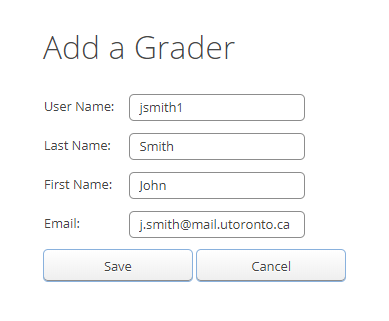
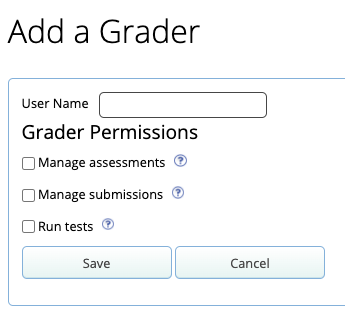
change admin to instructor

diff --git a/Instructor-Guide--Users.md b/Instructor-Guide--Users.md
@@ -7,9 +7,7 @@
      - [Other Actions](#other-actions)
  - [Grader Accounts](#grader-accounts)
  - [Sections](#sections)
- - [Admin Accounts](#admin-accounts)
-
-> :warning: **Warning**: Do not change the username of any users after they have been created. This will prevent that user from logging in unless their log in credentials change as well. If you need to change the username of a user, make sure you let your sysadmin know so that they can make the appropriate changes.
+ - [instructor Accounts](#instructor-accounts)
 
 ## Student Accounts
 
@@ -25,17 +23,16 @@ This will bring up the "Add a Student" page:
 ![Add a student page](images/users-add-student-form.png)
 
 The page contains the following fields to be filled out:
- **- User Name:** The student's username (used to log in).
- **- Last Name:** The student's last name.
- **- First Name:** The student's first name.
- **- Email:** The student's email address.
- **- ID number:** The student's student number (optional).
- **- Grace Credits:** The number of grace credits you'd like the student to have (if you'd like them to have none or are not using grace credits enter 0).
- **- Section:** The section the student is in (you may also create a new section from here) (optional).
+
+ - **User Name:** The student's username (used to log in).
+ - **Grace Credits:** The number of grace credits you'd like the student to have (if you'd like them to have none or are not using grace credits enter 0).
+ - **Section:** The section the student is in (you may also create a new section from here) (optional).
 
 Once you've filled out the required fields, don't forget to hit save to create your student account!
 
 If you wish to modify a student account that has already been created, click on the "Edit" hyperlink and you will be brought to the student's "Edit a Student" page (same as "Add a Student").
+
+Note that a student can only be added to a course if that user already exists in the database. If you see the error message "End user must exist" this means that a user with that user name has not been added yet. Please contact the MarkUs administrator to get that user added to the MarkUs database.
 
 ### Grace Credits
 Grace credits are used to allow students to [extend assignment deadlines](Instructor-Guide--Assignments--Late-Submission-Policies.md#automatically-deduct-grace-credits).
@@ -49,11 +46,12 @@ A count of the number of grace credits a student has left can be seen in the "Gr
 
 ### Other Actions
 Three actions other than assigning grace credits may be performed from the drop down menu:
- **- Add to section**: This allows you to add the selected student(s) to the specified lecture section.
+ 
+ - **Add to section**: This allows you to add the selected student(s) to the specified lecture section.
 ![Add to section](images/users-add-to-section.png)
 
- **- Mark as inactive:** Sets the selected student(s) status to inactive.
- **- Mark as active:** Sets the selected student(s) status to active.
+ - **Mark as inactive:** Sets the selected student(s) status to inactive.
+ - **Mark as active:** Sets the selected student(s) status to active.
 
 Don't forget to click the "Apply" button to save your changes.
 
@@ -66,13 +64,19 @@ This page allows you to view a table of all the current graders set up for this 
 This will take you to the "Add a Grader" page where you will be able to fill in the necessary fields to create a new grader account:
 ![Add a Grader John Smith](images/users-add-grader-form.png)
 
-Note that a username, a first name and a last name are required for the account to be created but an email address is NOT required.
-
 Once you have added a grader, their information will show up in the table with the rest of the graders for this course.
 
 If you wish to edit or delete a grader, then select either the "delete" or "edit" link of the grader's specific row.
 
 The "delete" link will remove the user from the database and the "edit" link will bring you to a page similar to the "Add a Grader" page.
+
+### Grader Permissions
+
+By default, graders are not allowed to do anything other than view and grade student submissions that they have been assigned. If you would like to allow certain graders to do more on MarkUs you can select the checkboxes under "Grader Permissions":
+
+- Manage assessments: Grader can create/update assignments
+- Manage submissions: Grader can collect submissions and release/unrelease grades
+- Run tests: Grader can run automated tests
 
 ## Sections
 The "Sections" tab allows you to manage the lecture sections for your course. To add a new lecture section, first navigate to the "Sections" tab of MarkUs (Users -> Sections).
@@ -84,12 +88,12 @@ To add a new section, click on the "Add a new section" button at the top of the 
 
 Clicking on the name of the lecture section will allow you to see a list of all the students currently in that section.
 
-## Admin Accounts
-To see a list of all the admin accounts associated with the course, navigate to the "Admins" tab (Users -> Admins).
+## Instructor Accounts
+To see a list of all the Instructor accounts associated with the course, navigate to the "instructorns" tab (Users -> Instructors).
 
-Here you will see a table with all the admin information. If you wish to edit admin information, click on the "Edit" hyperlink under the "Actions" column. You are allowed to change your username here but must request a password change from the system admin.
+Here you will see a table with all the instructor information. If you wish to edit instructor information, click on the "Edit" hyperlink under the "Actions" column. You are allowed to change your username here but must request a password change from the system admin.
 
-To add an admin account, click on the "Add an Admin" hyperlink in the top right hand corner of the page. You will be brought to the "Add an Admin" page where you may fill out the required information:
-![Add an Admin](images/users-admin-form.png)
+To add an instructor account, click on the "Add an Instructor" hyperlink in the top right hand corner of the page. You will be brought to the "Add an Instructor" page where you may fill out the required information:
+![Add an Instructor](images/users-admin-form.png)
 
 Don't forget to hit the save button when you're finished!

diff --git a/Instructor-Guide--Notes.md b/Instructor-Guide--Notes.md
@@ -11,7 +11,7 @@
 ## Notes Page
 The notes page can be accessed by clicking on the notes tab at the top of the home screen.
 
-The notes page allows you to see all the notes that have been created for the course. Notes may be created by graders or admin and are visible to both the graders and the admin but NOT the students. When a note is created it will display the name of the creator, the note type (and what/who it references) as well as the date of creation:
+The notes page allows you to see all the notes that have been created for the course. Notes may be created by graders or instructor and are visible to both the graders and the instructor but NOT the students. When a note is created it will display the name of the creator, the note type (and what/who it references) as well as the date of creation:
 ![Note explanation](images/note-note-breakdown.png)
 
 To create a note, click on the "Create Note" button at the top of the page:
@@ -23,19 +23,19 @@ Doing so will bring you to the "Create Note" page where you may choose one of th
 There are three different types of notes: student notes, grouping notes and assignment notes.
 
 ### Student Note
-A student note allows a grader or an admin to create a note about a specific student. To create a student note, select the "Student" option from the "Noteable" drop-down list of the "Create Note" page:
+A student note allows a grader or an instructor to create a note about a specific student. To create a student note, select the "Student" option from the "Noteable" drop-down list of the "Create Note" page:
 ![Student Note](images/note-form.png)
 
 From here you will be able to select which student you would like to make the note about and add a note message.
 
 ### Grouping Note
-A grouping note allows a grader or an admin to create a note about the submission of a specific group from a specific assignment. To create a grouping note, select the "Grouping" option from the "Noteable" drop-down list of the "Create Note" page:
+A grouping note allows a grader or an instructor to create a note about the submission of a specific group from a specific assignment. To create a grouping note, select the "Grouping" option from the "Noteable" drop-down list of the "Create Note" page:
 ![Grouping Note](images/note-form-group.png)
 
 From here you will be able to select the assignment and the group to which the note applies. Note that the group must have already been created for it to appear in the drop down list. Please see TODO INSERT LINK TO CREATING A GROUP PAGE for more information on creating groups. If groups are not allowed then the "Group" drop-down list will simply show a list of all the active students.
 
 ### Assignment Note
-An assignment note allows a grader or an admin to create a note about an entire assignment. To create an assignment note, select the "Assignment" option from the "Noteable" drop-down list of the "Create Note" page:
+An assignment note allows a grader or an instructor to create a note about an entire assignment. To create an assignment note, select the "Assignment" option from the "Noteable" drop-down list of the "Create Note" page:
 ![Assignment Note](images/note-form-assignment.png)
 
 From here you will be able to select the assignment to which the note applies and add a note message.
@@ -46,4 +46,4 @@ From here you will be able to select the assignment to which the note applies an
 After a note has been created in the "Create Note" section it will appear along with any other note that has been created in the notes table:
 ![Notes Table](images/note-table.png)
 
-The notes table gives the note information in the first column, the note description in the second and the option to delete or edit the note in the last column. Admins may edit or delete ANY note that has been created while graders may edit or delete only notes that they have created.
+The notes table gives the note information in the first column, the note description in the second and the option to delete or edit the note in the last column. Instructors may edit or delete ANY note that has been created while graders may edit or delete only notes that they have created.

diff --git a/Instructor-Guide--Assignments--Marking--Set-Up.md b/Instructor-Guide--Assignments--Marking--Set-Up.md
@@ -10,7 +10,7 @@
 > :spiral_notepad: **NOTE:** Before you will be able to perform any numerical marking (i.e. assigning groups a numerical grade) you must set up a [marking scheme](Instructor-Guide--Assignments--Marking--Marking-Schemes.md) for your assignment.
 
 ## Setting up a Grader Account
-If anyone other than the course instructor (admin) wants to be able to grade a student (or group's) work, they must have a "Grader" account. This means if a course has 4 TAs and everyone wants to be able to grade work, you must set up 4 separate "Grader" accounts - one for each TA. The course instructor does not require a separate account for grading as all marking can also be done from the admin account.
+If anyone other than the course instructor wants to be able to grade a student (or group's) work, they must have a "Grader" account. This means if a course has 4 TAs and everyone wants to be able to grade work, you must set up 4 separate "Grader" accounts - one for each TA. The course instructor does not require a separate account for grading as all marking can also be done from the admin account.
 
 For information on setting up a "Grader" account please see "[Grader Accounts](Instructor-Guide--Users.md#grader-accounts)".
 
@@ -40,7 +40,7 @@ Before you may being grading an assignment, you must first collect the submitted
 
 When the collect command is executed it checks to see the file version for each submission that meets the due date and/or late penalty set for this assignment. It then creates the views for annotating and grading each submission.
 
-> :warning: **WARNING: If the collect operation is carried out after grading has begun (by admin or a TA) this grading work will be overwritten.** To prevent the preceding warning from occurring, ensure that you do not re-collect after any grading work has begun.
+> :warning: **WARNING: If the collect operation is carried out after grading has begun (by instructor or a TA) this grading work will be overwritten.** To prevent the preceding warning from occurring, ensure that you do not re-collect after any grading work has begun.
 
 Once the files for an assignment have been collected, the marking state of the submission will change from "Not Collected" to "In Progress".
 
@@ -50,8 +50,8 @@ An instructor can bypass the collection process to manually select which version
 
 ## Marking State
 There are six different marking states for a submission:
- 1. **Not Collected** - The group has been formed and may have submit work already but nothing has been collected by any TA or admin. All groups should have this status until the deadline to submit (with grace token extension) has passed.
- 2. **In Progress** - Either a TA or an admin has collected the submission and is currently working on grading the assignment.
+ 1. **Not Collected** - The group has been formed and may have submit work already but nothing has been collected by any TA or instructor. All groups should have this status until the deadline to submit (with grace token extension) has passed.
+ 2. **In Progress** - Either a TA or an instructor has collected the submission and is currently working on grading the assignment.
  3. **Complete** - The grading of the assignment has been completed but the mark has not yet been released to the group.
  4. **Released** - The mark has been released to the group along with any annotations that have been made.
  5. **Before Due Date** - The due date has not passed for this group.

diff --git a/Instructor-Guide--Assignments--Automated-Testing.md b/Instructor-Guide--Assignments--Automated-Testing.md
@@ -110,7 +110,7 @@ This section lists all the fields that are common to all testers:
      2. Only display test output to students for [student-run tests](#student-run-tests)
      3. Always display test output to students
 
-    This determines whether the "Output" column will be displayed to students on the [test results table](#test-results-table). This column will always be visible to admins and graders.
+    This determines whether the "Output" column will be displayed to students on the [test results table](#test-results-table). This column will always be visible to instructors and graders.
 
  - **Criterion:** Select a [criterion](Instructor-Guide--Assignments--Marking--Marking-Schemes.md) here that has been created and to link it to this test group. This is optional.
 
@@ -118,7 +118,7 @@ This section lists all the fields that are common to all testers:
  > :spiral_notepad: **NOTE:** ALL the tests specified in a file will be run. If you wish to have tests in a separate group, you must put them in a separate file. <br/>
  > :arrow_forward: **EXAMPLE:** For a python tester, select one or more unittest or pytest files; for a java tester, select one or more Junit files. Do NOT select fixtures or data files if they do not contain tests themselves.
 
- - **Category:** Select the type of user you wish to be allowed to run this test group. If you wish for both students and yourself (admin) to be able to run tests in this group, hold down the "Ctrl" button and click on both the "admin" and "student" lines.
+ - **Category:** Select the type of user you wish to be allowed to run this test group. If you wish for both students and yourself (instructor) to be able to run tests in this group, hold down the "Ctrl" button and click on both the "instructor" and "student" lines.
  > :spiral_notepad: **NOTE:** At this time, tests are not allowed to be run by grader accounts. Graders may see test results while they are marking however they cannot initiate tests.
 
  - **Timeout:*** The amount of time (in seconds) before the tester will time out and halt all tests in this test group.
@@ -126,7 +126,7 @@ This section lists all the fields that are common to all testers:
 
  - **Feedback File:** The name of an output file to write feedback to. Avoid naming this the same thing as a test file or a submitted file in order to prevent the tester from overwriting an existing file. If a feedback file is specified you will be given two more options:
       - "Add feedback file to repo:" This file will be uploaded to the student's repository at the end of the tests.
-      - "Upload feedback file for grading:" Uploads the feedback file to the student's submission for that assignment. The student, admin and grader will be able to view and download the file from the [grading view](Instructor-Guide--Assignments--Marking--Grading-View.md).
+      - "Upload feedback file for grading:" Uploads the feedback file to the student's submission for that assignment. The student, instructor, and grader will be able to view and download the file from the [grading view](Instructor-Guide--Assignments--Marking--Grading-View.md).
 
 
 ### Tester Types

diff --git a/Developer-Guide--Action-Policy-Style-Guide.md b/Developer-Guide--Action-Policy-Style-Guide.md
@@ -81,9 +81,9 @@ en:
     policy:
       example:
         index?: "You don't have access to the index route."
-        be_an_admin?: "You are not an admin user"
+        be_an_instructor?: "You are not an instructor user"
       other:
-        be_an_admin?: "You are still not an admin user"
+        be_an_instructor?: "You are still not an instructor user"
         be_a_ta_or_student?:  "You are not a TA or a student"
 ```
 
@@ -92,27 +92,27 @@ Scenario 1:
 ```ruby
 class ExamplePolicy < ApplicationPolicy
     def index?
-        check?(:be_an_admin?)
+        check?(:be_an_instructor?)
     end
 
-    def be_an_admin?
-        user.admin?
+    def be_an_instructor?
+        user.instructor?
     end
 end
 ```
 
-If the `index?` policy fails the error messages will be: `["You don't have access to the index route.", "You are not an admin user"]` becuase both the `index?` and `admin?` policies are called.
+If the `index?` policy fails the error messages will be: `["You don't have access to the index route.", "You are not an instructor user"]` becuase both the `index?` and `instructor?` policies are called.
 
 Scenario 2:
 
 ```ruby
 class ExamplePolicy < ApplicationPolicy
     def index?
-        user.admin?
+        user.instructor?
     end
 
-    def be_an_admin?
-        user.admin?
+    def be_an_instructor?
+        user.instructor?
     end
 end
 ```
@@ -125,12 +125,12 @@ Note that failure reasons will only be added if `check?` or `allowed_to?` is cal
 ```ruby
 class ExamplePolicy < ApplicationPolicy
     def index?
-        check?(:admin?, with: OtherPolicy)
+        check?(:instructor?, with: OtherPolicy)
     end
 end
 
 class OtherPolicy < ApplicationPolicy
-    def be_an_admin?
+    def be_an_instructor?
         !check?(:be_a_ta_or_student?)
     end
 
@@ -139,7 +139,7 @@ class OtherPolicy < ApplicationPolicy
     end
 end
 ```
-If the `index?` policy fails, the error messages will be: `["You don't have access to the index route.", "You are still not an admin user"]`. It will not include `"You are not a TA or a student"` because the `check?` function was called in a policy class different to the one that `index?` is in.
+If the `index?` policy fails, the error messages will be: `["You don't have access to the index route.", "You are still not an instructor user"]`. It will not include `"You are not a TA or a student"` because the `check?` function was called in a policy class different to the one that `index?` is in.
 
 
 #### Include additional context for policies if needed

diff --git a/Developer-Guide--Tips-And-Tricks--Security.md b/Developer-Guide--Tips-And-Tricks--Security.md
@@ -137,7 +137,7 @@ Testing for XSS consists of the following:
 -   inspection of code to ensure that all views have properly escaped code displayed back to the user
 -   scanning with automated tools such as XSS Me
 
-This attack is highly relevant to the MarkUs project, as it can be used to elevate student privileges to TA or admin level.
+This attack is highly relevant to the MarkUs project, as it can be used to elevate student privileges to TA or instructor level.
 
 ### A2 - Injection Flaws
 
@@ -229,6 +229,6 @@ This is a fairly serious issue for an application which is likely to be use on a
 
 *Frequently, an application only protects sensitive functionality by preventing the display of links or URLs to unauthorized users. Attackers can use this weakness to access and perform unauthorized operations by accessing those URLs directly.* ([link](http://www.owasp.org/index.php/Top_10_2007-Failure_to_Restrict_URL_Access))
 
-This is easy to test against. Login as an admin user and copy URLs which only the admin user has access to. Log back in as a non-admin user and try browsing to those URLs. This is known as "forced browsing." If you are able to, there is a problem with the access control mechanisms governing URL access.
+This is easy to test against. Login as an instructor user and copy URLs which only the instructor user has access to. Log back in as a non-instructor user and try browsing to those URLs. This is known as "forced browsing." If you are able to, there is a problem with the access control mechanisms governing URL access.
 
 This issue is highly relevant to MarkUs due to the possibility of privilege escalation on the part of students.

diff --git a/Instructor-Guide--Groups.md b/Instructor-Guide--Groups.md
@@ -8,7 +8,7 @@
 ## Manage Groups Page
 Groups can be managed from the "Groups" tab under "Assignments".
 
-This page allows admin users to create and remove existing groups for a given assignment, add and remove students from groups, and give extensions to individual groups.
+This page allows instructor users to create and remove existing groups for a given assignment, add and remove students from groups, and give extensions to individual groups.
 
 ## Groups Actions
 
@@ -60,7 +60,7 @@ Clicking the + icon in the "Due Date Extension" column on the right hand table w
 
 ![Extension Modal](images/groups-extension-modal.png)
 
-Extensions can be specified in any combination of weeks, days, and hours. Additionally, you may choose to apply late penalties on top of this extension (or not) by clicking the "Apply late submission policy when collecting this group's submissions" checkbox. Notes may also be added which are only visible to admins.
+Extensions can be specified in any combination of weeks, days, and hours. Additionally, you may choose to apply late penalties on top of this extension (or not) by clicking the "Apply late submission policy when collecting this group's submissions" checkbox. Notes may also be added which are only visible to instructors.
 
 To edit an existing extension for a group, click the link in the "Due Date Extension" column that replaces the + icon once an extension has been added.
 

diff --git a/Developer-Guide--Tips-And-Tricks--Annotations.md b/Developer-Guide--Tips-And-Tricks--Annotations.md
@@ -41,7 +41,7 @@ When TAs press the "Create New Annotation" button, a dialog comes up for the ann
 
 There are three models that deal with annotations: `AnnotationCategory`, `AnnotationText`, and `Annotation`.
 
-- `AnnotationCategory`: a group of reusable annotations. It belongs to an `Assignment`, and has many `AnnotationText`s. It has a name for the category, like `'Style'` or `'Memory Management'`. Only admins can create annotation categories.
+- `AnnotationCategory`: a group of reusable annotations. It belongs to an `Assignment`, and has many `AnnotationText`s. It has a name for the category, like `'Style'` or `'Memory Management'`. Only instructors or graders with "manage assessment" permissions can create annotation categories.
 - `AnnotationText` contains the actual text content of an annotation. Each `AnnotationText` optionally belongs to an `AnnotationCategory`; if the association is `nil`, this text is an on-the-fly annotation, used for just a single submission file.
 - `Annotation`: an actual annotation given by a TA for a submission. It belongs to a `SubmissionFile` *and* `AnnotationText`, and also contains information about where the annotation occurs. These "location" columns are all nullable because they only apply to certain kinds of submission files.
 

diff --git a/Instructor-Guide--Importing-and-Exporting-Data.md b/Instructor-Guide--Importing-and-Exporting-Data.md
@@ -299,7 +299,7 @@ The following fields are specified for each tag.
 
 * `name`: the name of the tag. The name cannot be blank, and must be unique.
 * `description`: the description of the tag.
-* `user`: the user name of an Admin user who is the creator of the tag.
+* `user`: the user name of an instructor user who is the creator of the tag.
 
 The CSV file format consists of one row per tag, with the above three fields in the given order.
 The YML file format is a list of objects, where each object contains the three above fields.
@@ -309,8 +309,8 @@ The YML file format is a list of objects, where each object contains the three a
 CSV format:
 
 ```csv
-Sample tag,This is a sample description.,admin_user1
-Second look,This submission should be reviewed by an instructor.,admin_user1
+Sample tag,This is a sample description.,instructor_user1
+Second look,This submission should be reviewed by an instructor.,instructor_user1
 ```
 
 YML format:
@@ -318,10 +318,10 @@ YML format:
 ```yml
 - name: Sample tag
   description: This is a sample description.
-  user: admin_user1
+  user: instructor_user1
 - name: Second look
   description: This submission should be reviewed by an instructor.
-  user: admin_user2
+  user: instructor_user2
 ```
 
 ## Graders

diff --git a/Instructor-Guide--Student-View.md b/Instructor-Guide--Student-View.md
@@ -5,14 +5,14 @@
 
 ## View as Another User
 
-An admin user can choose to view MarkUs from the perspective of a student or grader user by selecting the "Switch Role" icon.
+An instructor user can choose to view MarkUs from the perspective of a student or grader user by selecting the "Switch Role" icon.
 
 This icon can be found at the top right corner of any page in MarkUs. If a "Log Out" link is visible, the icon can be found beside that link.
 
 ![Switch Role](images/switch-role.png)
 
-Clicking on the "Switch Role" icon will open a modal. To switch perspectives, type the username of any student or grader user in the "Log in as" field and your own password in the "Admin Password" field.
+Clicking on the "Switch Role" icon will open a modal. To switch perspectives, type the username of any student or grader user in the "Log in as" field.
 
 ![Switch Role Modal](images/switch-role-modal.png)
 
-To switch back to the regular (admin) view. Click the same icon and this time type in your own username and password.
+To switch back to the regular (instructor) view. Click the same icon and this time type in your own username.

diff --git a/Instructor-Guide--FAQ.md b/Instructor-Guide--FAQ.md
@@ -1,14 +1,8 @@
 # Instructor Frequently Asked Questions
 
-## How do I upgrade a grader to an admin?
+## How do I upgrade a grader to an instructor?
 
-You can't. However, there is a workaround. Edit the username of the grader user to something that is unlikely to be a username of an existing user. Now you can create a new admin user with the grader's original username. The grader now has a new account with admin access.
-
-For example, to change a grader with username grader123 to an admin:
-
-1. Edit the username for grader123 to something like grader123INVALIDUSER (or something similar)
-2. Create a new admin user with the username grader123
-3. Tell grader123 to log in as normal
+You can't. However, you can give the grader permissions to do pretty much everything an instructor can do. See [grader permissions](./Instructor-Guide--Users.md#grader-permissions) for more details
 
 
 ## How do I accept a late file submitted after the final deadline?

diff --git a/General-Usage.md b/General-Usage.md
@@ -44,7 +44,7 @@ Once you have added your files the data that may be displayed on the table (Note
 
  - **Filename** - The name of the file that has been uploaded. You may click on the file name to download a copy of the file.
  - **Submitted At** - The time at which the file was last uploaded
- - **Revised By** - The person who last modified the file. Only admins (instructors) may add or delete test files. Graders and students may not.
+ - **Revised By** - The person who last modified the file. Only instructors may add or delete test files. Graders and students may not.
 
 You may search through all the uploaded files using the "Filter Files" search bar. The search will match all text in the file title (i.e. you can search for the file name or the file extension).
 
